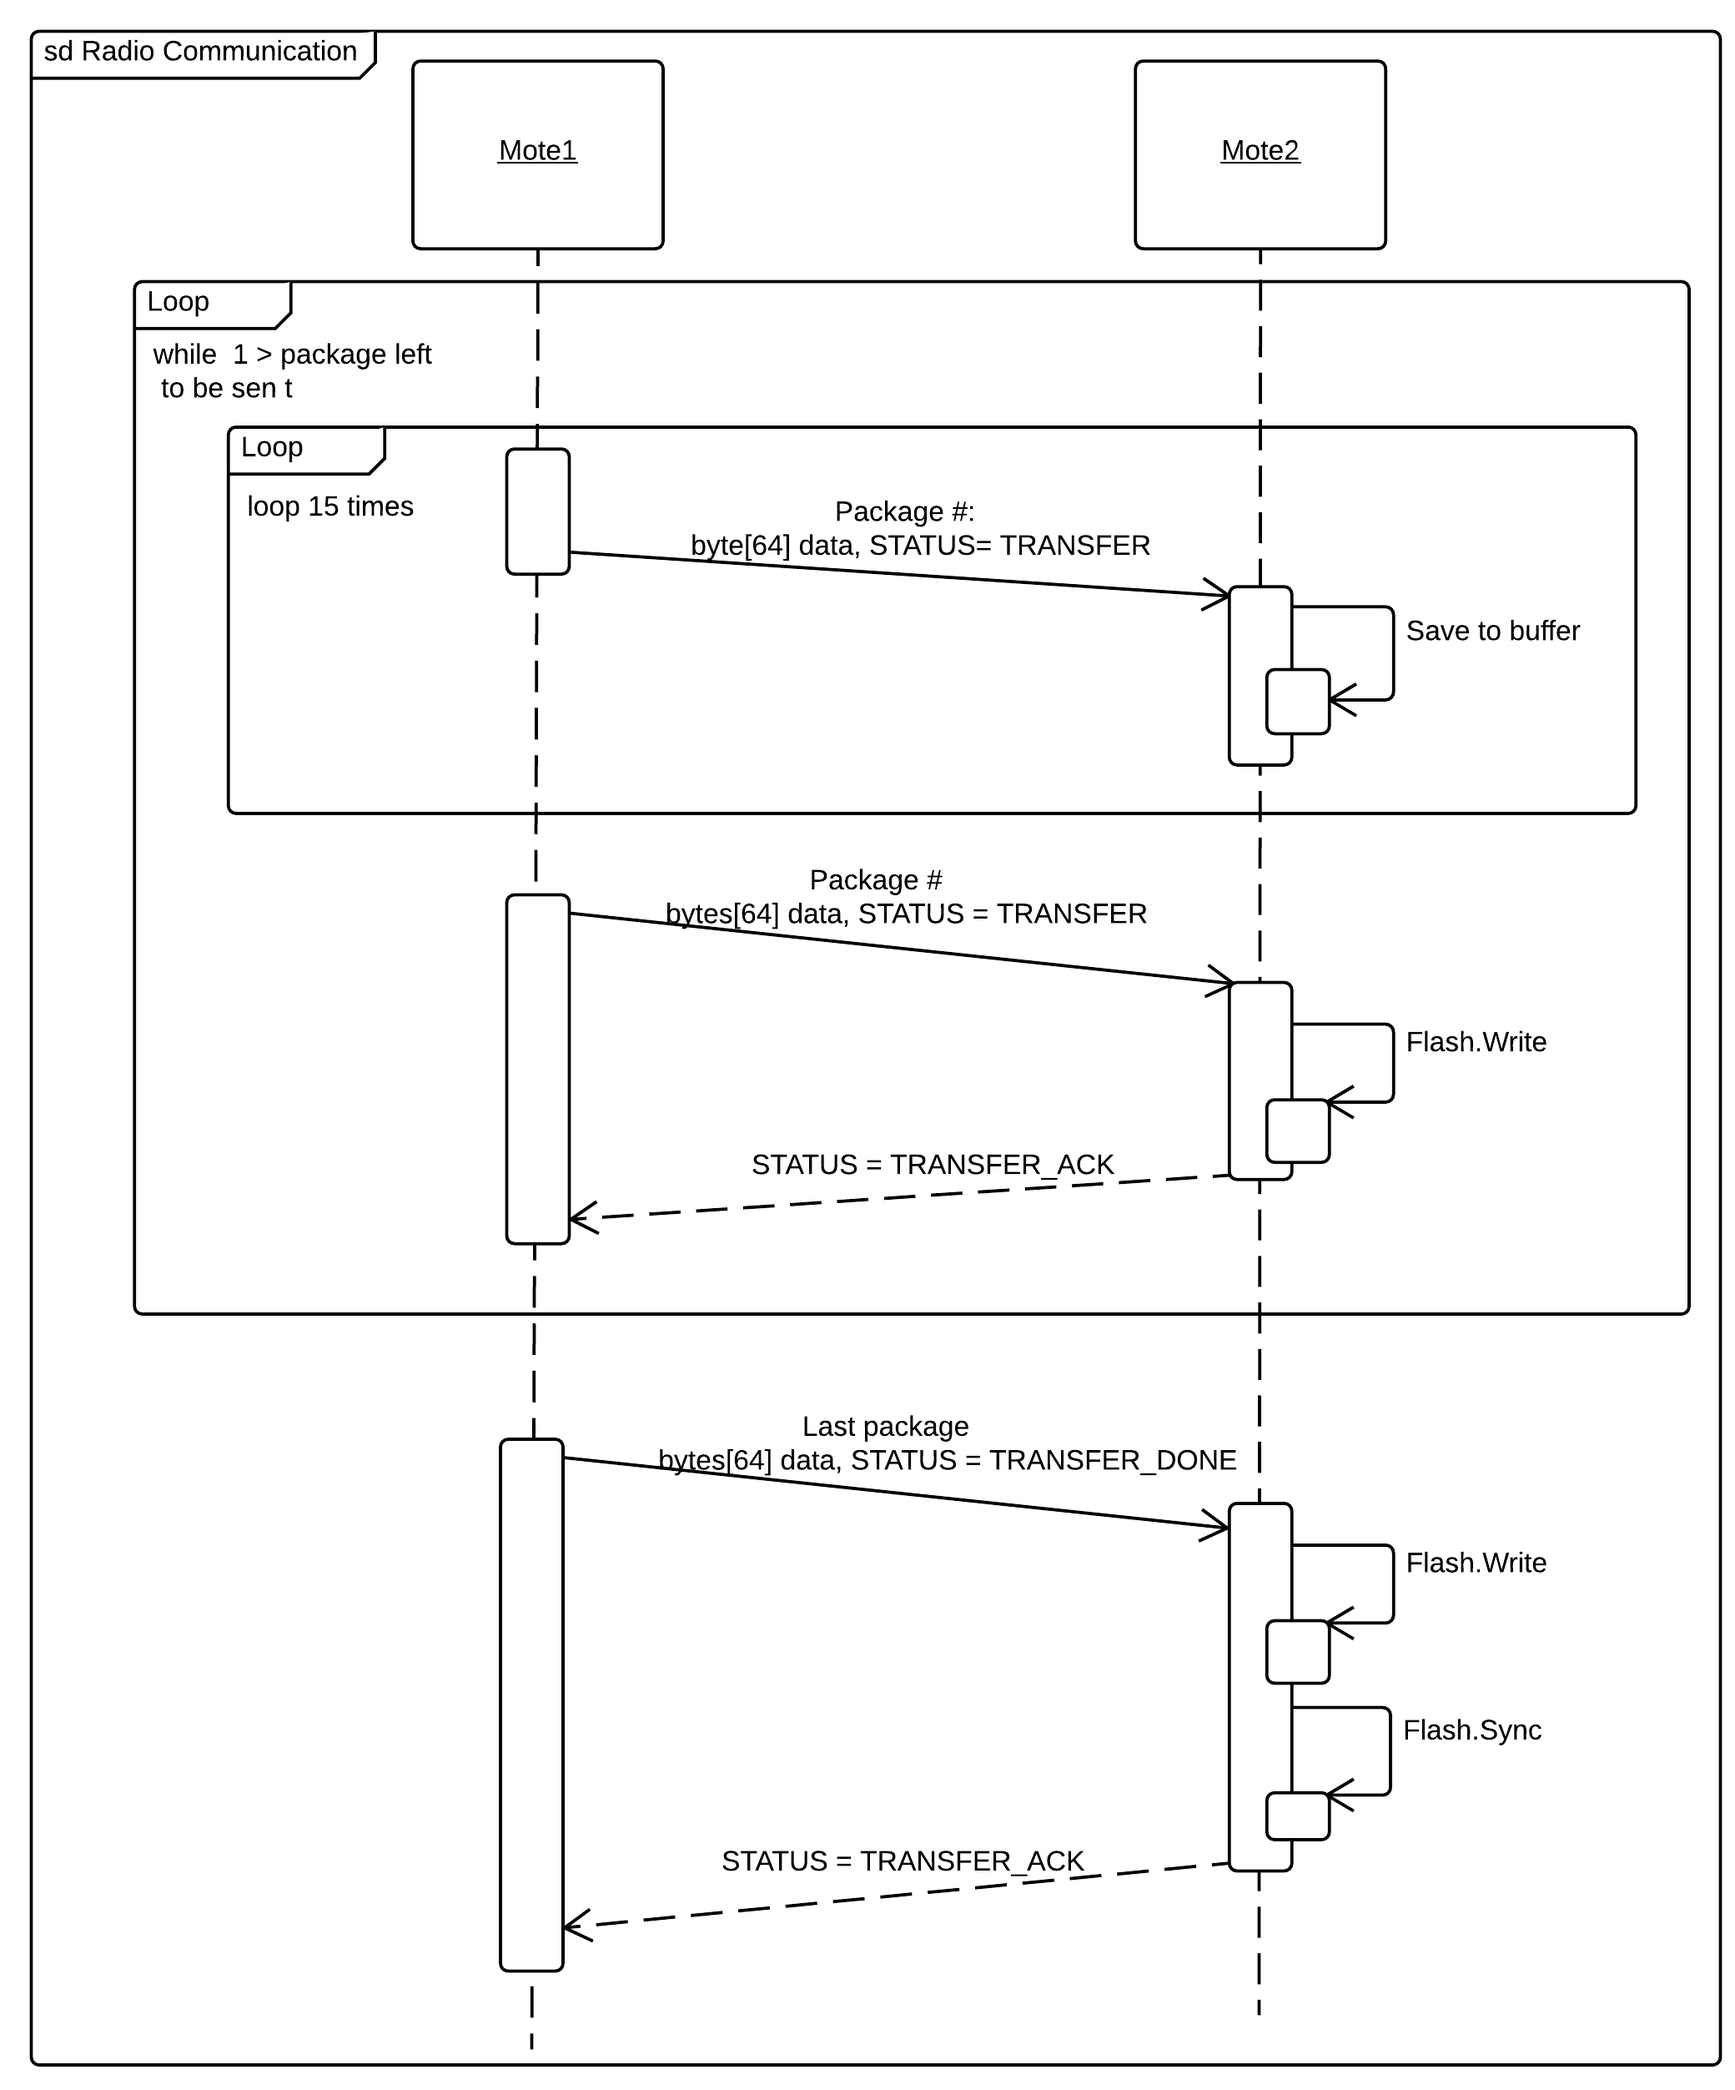
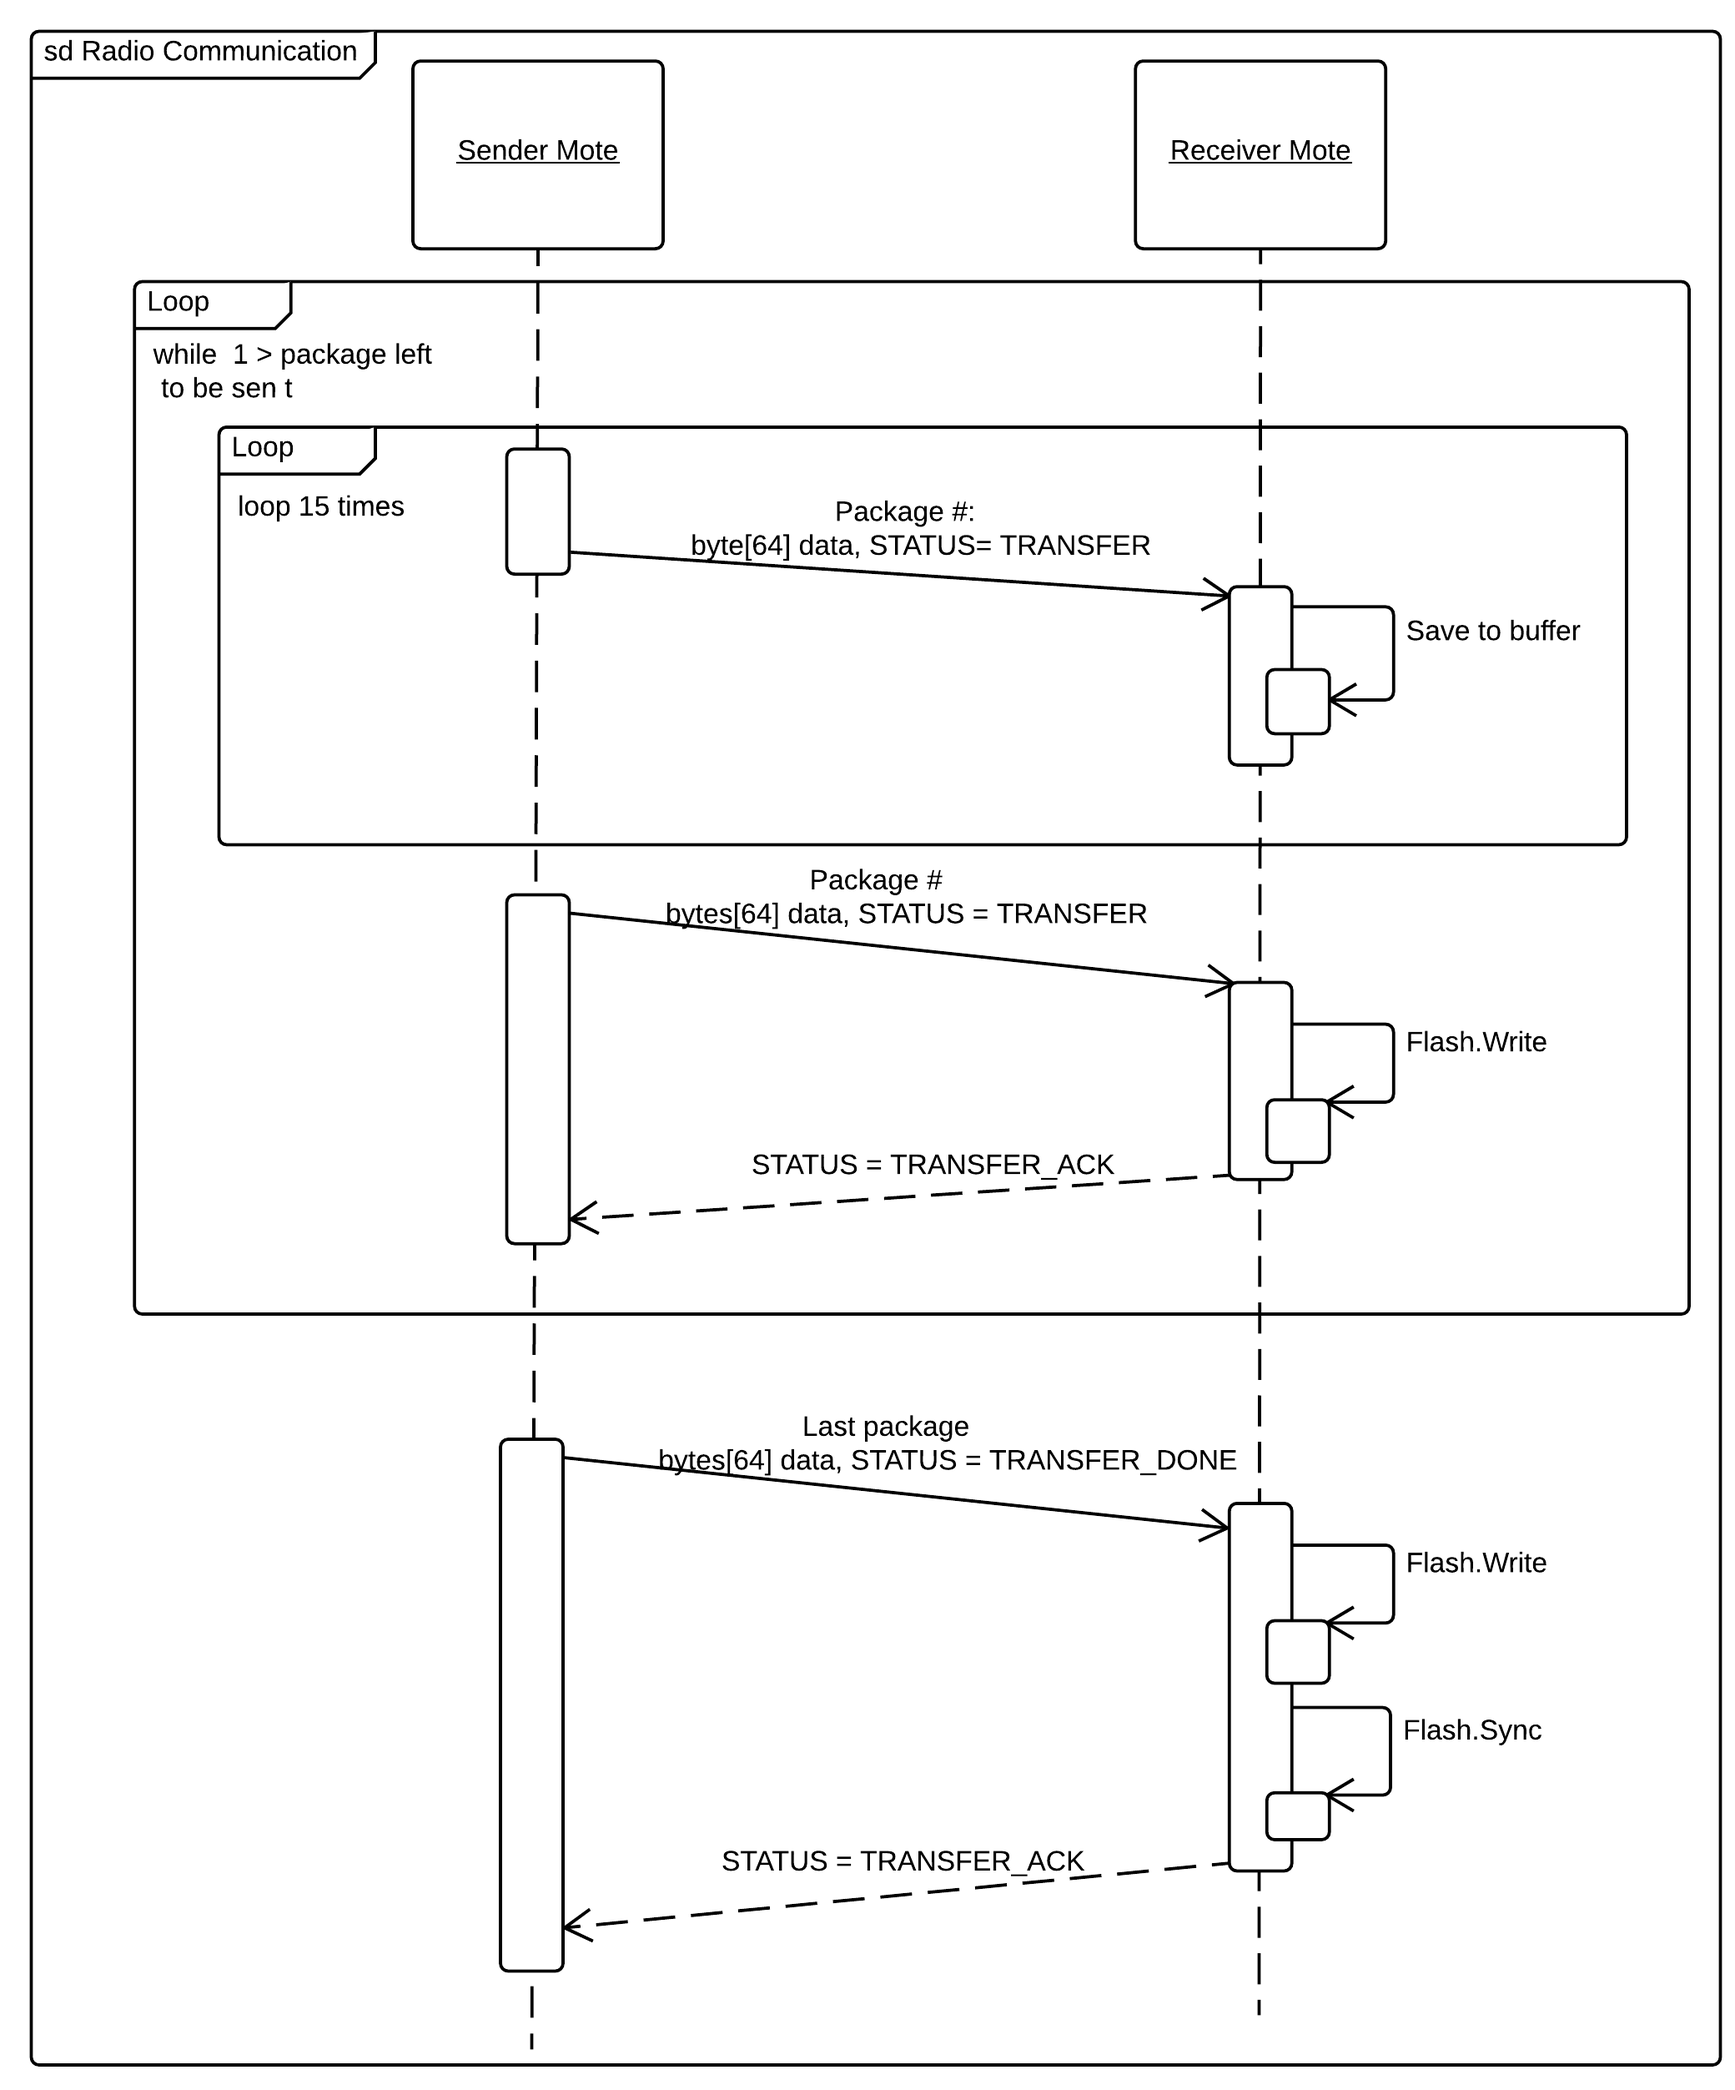
Changed naming of Mote1 and Mote2

diff --git a/TIWSNE Raport/chapter/implementation.tex b/TIWSNE Raport/chapter/implementation.tex
@@ -4,11 +4,11 @@
 This chapter explains the design and implementation of the application and the choices made during the development.
 
 \section{Architecture}
-The objective of the project is to send an image, compressed and uncompressed, from one mote to another. To do this two PCs and two TelosB motes has been used, one sender mote and one receiver mote. The architecture of the system is shown in Figure \ref{fig:SystemOverview}. \emph{PC1} has the responsibility of converting an image into a byte array and transferring it to Mote1 over serial communication. When it is transfered to \emph{Mote1} the implemented \emph{SerialCom} module is used. The image is stored in the flash memory, because it is to big to be stored in the RAM. From the flash it is compressed and sent to \emph{Mote2}, via the \emph{RadioCom} module.
+The objective of the project is to send an image, compressed and uncompressed, from one mote to another. To do this two PCs and two TelosB motes has been used, one sender mote and one receiver mote. The architecture of the system is shown in Figure \ref{fig:SystemOverview}. \emph{PC1} has the responsibility of converting an image into a byte array and transferring it to Sender Mote over serial communication. When it is transfered to \emph{Sender Mote} the implemented \emph{SerialCom} module is used. The image is stored in the flash memory, because it is to big to be stored in the RAM. From the flash it is compressed and sent to \emph{Receiver Mote}, via the \emph{RadioCom} module.
 
 \myFigure{classDiagram.png}{The architecture of the system}{fig:SystemOverview}{0.7}
 
-As seen in the figure \ref{fig:SystemOverview} the same modules and interfaces are also used in \emph{Mote2}. The compressed data is received in \emph{Mote2}, then decompressed and stored in the flash. From the flash it is send to \emph{PC2} via serial communication. 
+As seen in the figure \ref{fig:SystemOverview} the same modules and interfaces are also used in \emph{Receiver Mote}. The compressed data is received in \emph{Receiver Mote}, then decompressed and stored in the flash. From the flash it is send to \emph{PC2} via serial communication. 
 
 %The image which is send around is only the raster of the original BMP.
 %Be the image is transferred the header and footer has been stripped. When a PC receives the image back from a TelosB the image is then reconstructed according to its original.
@@ -24,9 +24,9 @@ As seen in the figure \ref{fig:SystemOverview} the same modules and interfaces a
 
 The serial communication is used to transfer the image between the PCs and the TelosB motes. 
 
-In figure \ref{fig:serialCom} the serial communication between \emph{PC1} and \emph{Mote1} is explained. \emph{PC1} transfers a stream of packages to \emph{Mote1}. The image is transferred in packages of 64 bytes and \emph{Mote1} writes the data to the flash when it is received. When the last packages is signaled the flash is synchronized.
+In figure \ref{fig:serialCom} the serial communication between \emph{PC1} and \emph{Sender Mote} is explained. \emph{PC1} transfers a stream of packages to \emph{Sender Mote}. The image is transferred in packages of 64 bytes and \emph{Sender Mote} writes the data to the flash when it is received. When the last packages is signaled the flash is synchronized.
 
-\myFigure{serialCom.png}{Serial Communication from \emph{PC1} to \emph{Mote1}}{fig:serialCom}{0.7}
+\myFigure{serialCom.png}{Serial Communication from \emph{PC1} to \emph{Sender Mote}}{fig:serialCom}{0.7}
 
 Similar when the sink mote transfers the image to \emph{PC2} the PC reconstruct the image when the last package is received.
 
@@ -38,7 +38,7 @@ The Block storage is a write-once model of storage. Rewriting requires an erase.
 
 To be able to use the Block storage the flash chip needs to be divided into one or more fixed-sized volumes. The volume is specified at compile-time. The volume size used in this project is 65,536 bytes which is the maximum size.
 
-The interface \emph{Flash} was created to accommodate \emph{Mote1} and \emph{Mote2} which both needs to be able to write and read from the flash. \emph{Flash} is presented in Listing \ref{lst:flash}.
+The interface \emph{Flash} was created to accommodate \emph{Sender Mote} and \emph{Receiver Mote} which both needs to be able to write and read from the flash. \emph{Flash} is presented in Listing \ref{lst:flash}.
 
 \begin{lstlisting}[caption={The interface flash}, label=lst:flash]
 interface Flash
@@ -81,7 +81,7 @@ All implemented compressions and decompressions are done using bitwise operators
 
 
 \section{Radio communication}
-Radio communication was used for transferring an image from one mote to another. The transferred image is read from the flash in chunks of 1024 bytes and saved to a buffer. Afterwards it is transferred to \emph{Mote2} in packages of 64 bytes. Figure \ref{fig:radioCom} presents the transfer between \emph{Mote1} and the sink, \emph{Mote2}.
+Radio communication was used for transferring an image from one mote to another. The transferred image is read from the flash in chunks of 1024 bytes and saved to a buffer. Afterwards it is transferred to \emph{Receiver Mote} in packages of 64 bytes. Figure \ref{fig:radioCom} presents the transfer between \emph{Sender Mote} and the sink, \emph{Receiver Mote}.
 
 %Before each transfer the \emph{Sender} side, the image has been reed in chunks of 1024 bytes. The chunk of 1024 bytes is loaded into a buffer. The buffer is then divided into packages of 64 bytes and then sent to the receiving TelosB. The sequence diagram in Figure \ref{fig:radioCom} gives an overview of how this process works.
 
@@ -90,7 +90,7 @@ Radio communication was used for transferring an image from one mote to another.
 
 
 
-The sequence diagram in figure \ref{fig:radioCom} illustrates how a non-compressed image is transferred. \emph{Mote1} start by reading 1024 bytes from the flash when the user button is pressed. It then transfers 16 packages and waits for an acknowledge. When \emph{Mote1} has received the acknowledge it will read another 1024 bytes from the flash and transfer the next 16 packages. When transferring the last package the status will be set to \emph{TRANSFER\_DONE} and the stream of bytes is transferred.
+The sequence diagram in figure \ref{fig:radioCom} illustrates how a non-compressed image is transferred. \emph{Sender Mote} starts by reading 1024 bytes from the flash when the user button is pressed. It then transfers 16 packages and waits for an acknowledge. When \emph{Sender Mote} has received the acknowledge it will read another 1024 bytes from the flash and transfer the next 16 packages. When transferring the last package the status will be set to \emph{TRANSFER\_DONE} and the stream of bytes is transferred.
 
 \FloatBarrier
 
@@ -98,8 +98,8 @@ The sequence diagram in figure \ref{fig:radioCom} illustrates how a non-compress
 
 %When the last package of the image is about to be send the \emph{Sender} sends a \emph{TRANSFER\_DONE} with the last package. The \emph{Receiver} will not send any \emph{TRANSFER\_ACK} back and the \emph{Sender} will neither expect a \emph{TRANSFER\_ACK }.
 
-Each time \emph{Mote2} receives a package of 64 bytes it stores the data in a buffer. The buffer has the size of 1024 bytes. When the buffer is full it is written to the flash. If a compression is applied the data in the buffer will be decompressed before writing it to the flash. Similar \emph{Mote1} will compress after reading from the flash and before transferring.
+Each time \emph{Receiver Mote} receives a package of 64 bytes it stores the data in a buffer. The buffer has the size of 1024 bytes. When the buffer is full it is written to the flash. If a compression is applied the data in the buffer will be decompressed before writing it to the flash. Similar \emph{Sender Mote} will compress after reading from the flash and before transferring.
 
-If the image has been compressed it will transfer the packages corresponding to the compressed size. For example, if the image has been compressed with a 4-bit compression the 1024 bytes will be reduced to 512 bytes. So instead of transferring 16 packages the \emph{Mote1} transfers 8 packages of 64 bytes each and waits for an acknowledge.
+If the image has been compressed it will transfer the packages corresponding to the compressed size. For example, if the image has been compressed with a 4-bit compression the 1024 bytes will be reduced to 512 bytes. So instead of transferring 16 packages the \emph{Sender Mote} transfers 8 packages of 64 bytes each and waits for an acknowledge.
 
-If the image is being compressed, \emph{Mote1} signals which compression has been used by adding the information to the header. \emph{Mote2} then  decompresses based on the header information.
+If the image is being compressed, \emph{Sender Mote} signals which compression has been used by adding the information to the header. \emph{Receiver Mote} then  decompresses based on the header information.
